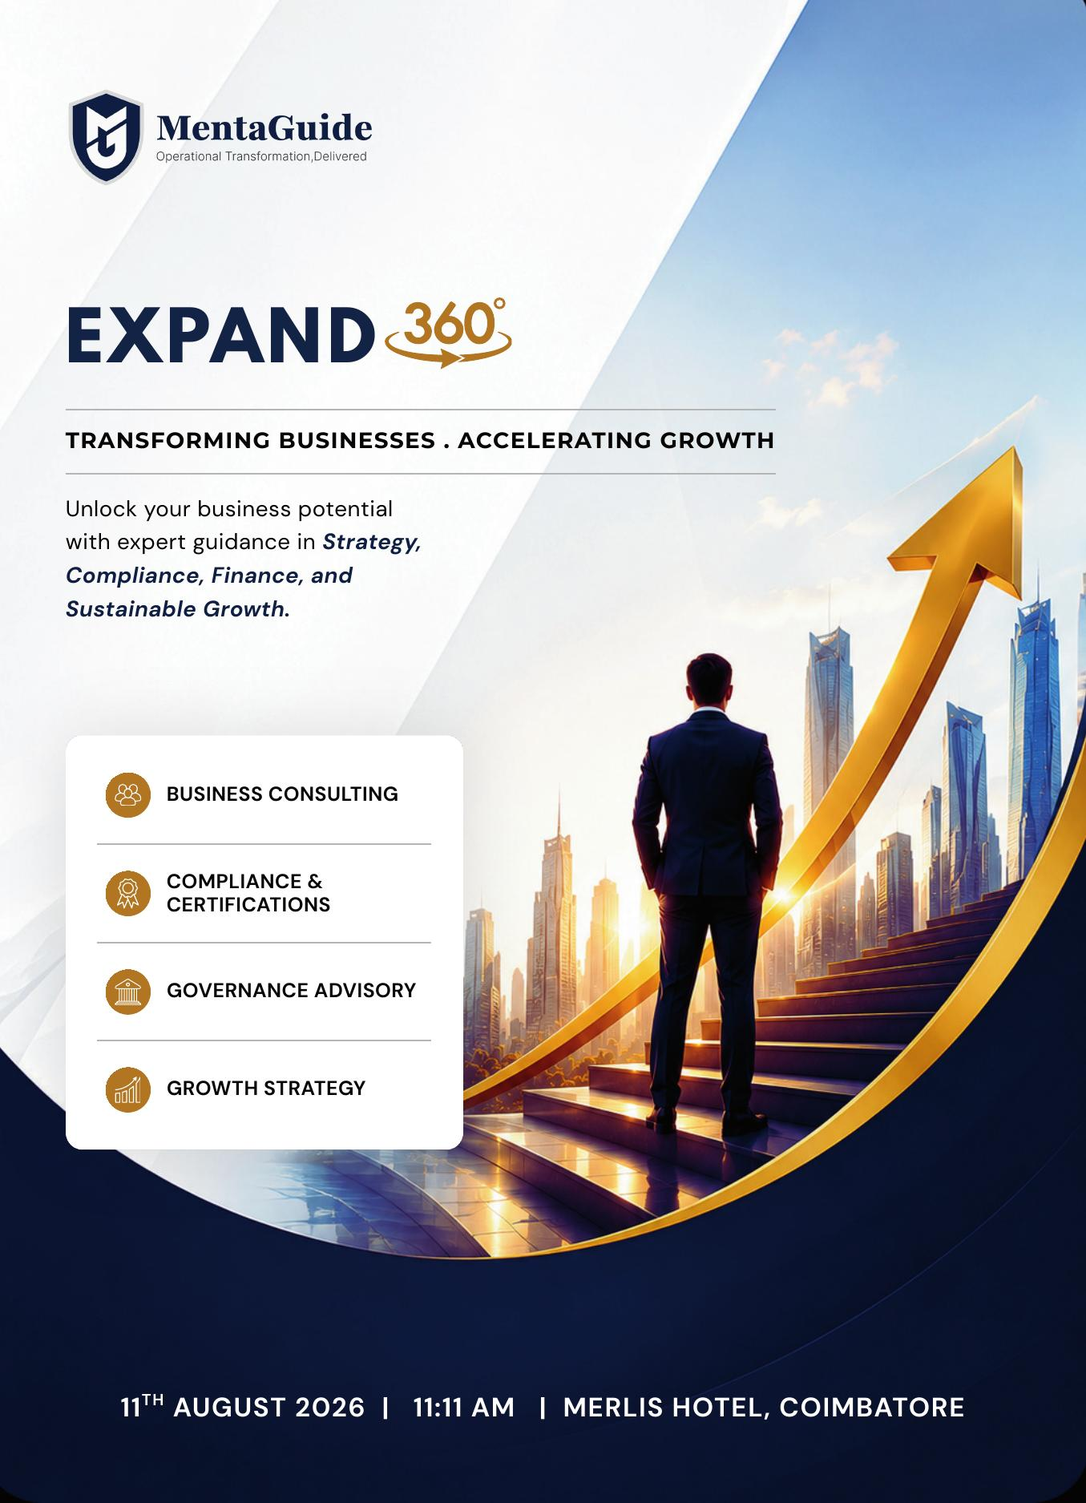
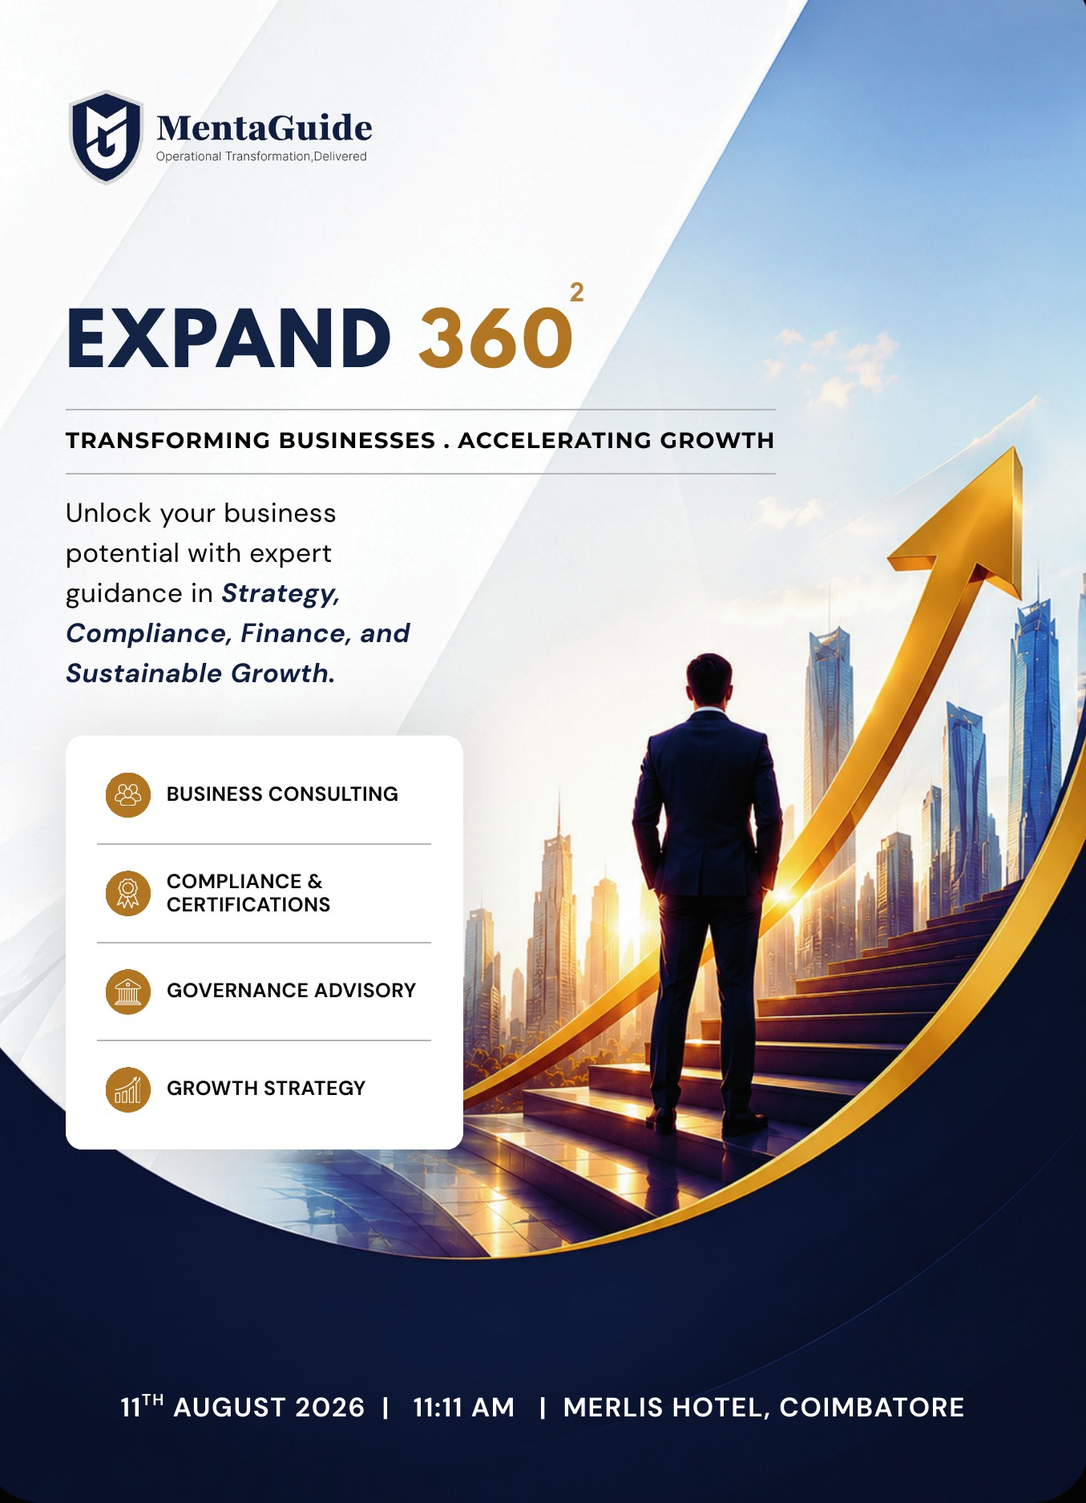
corrections

Changed region(s): [[0.062, 0.3093, 0.372, 0.464], [0.062, 0.1856, 0.5579, 0.2475]]

diff --git a/src/components/Shared/Navbar.jsx b/src/components/Shared/Navbar.jsx
@@ -5,11 +5,9 @@ import { toast } from 'react-toastify';
 import { FaArrowRight } from 'react-icons/fa';
 import { Mentaguidelogo1 } from '../../assets/images';
 import { AppContext } from '../../context/AppContext';
-import AdvertiserForm from '../AdvertiserForm';
 
 const Navbar = ({ activeIndex, hideFloatingNav = false }) => {
   const [isOpen, setIsOpen] = useState(false);
-  const [isAdvertiserModalOpen, setIsAdvertiserModalOpen] = useState(false);
   const [isDropdownOpen, setIsDropdownOpen] = useState(false);
   const navigate = useNavigate();
   const location = useLocation();
@@ -21,13 +19,7 @@ const Navbar = ({ activeIndex, hideFloatingNav = false }) => {
   const toggleMenu = () => setIsOpen(!isOpen);
 
   const handleAdvertiserClick = () => {
-    if (!userData) {
-      toast.error('To access this form, you must login your email.');
-    } else if (!userData.isAccountVerified) {
-      toast.error('To access this form, you must verify your email.');
-    } else {
-      setIsAdvertiserModalOpen(true);
-    }
+    navigate('/event-registration');
   };
 
   const sendVerificationEmail = async () => {
@@ -206,17 +198,17 @@ const Navbar = ({ activeIndex, hideFloatingNav = false }) => {
 
           {/* Bottom Elements */}
           {!hideFloatingNav && (
-          <div className={`${positionClass} ${location.pathname === '/about' ? 'top-[calc(100vh-0.0rem)] sm:top-[calc(100vh-1rem)] md:top-[calc(100vh-4rem)] lg:top-[calc(100vh-4.5rem)]' : isAboutPage ? 'top-[calc(100vh-8rem)] sm:top-[calc(100vh-6rem)] md:top-[calc(100vh-4rem)] lg:top-[calc(100vh-4.5rem)]' : 'bottom-8 md:bottom-4 lg:bottom-6'} left-0 right-0 flex flex-col md:flex-row justify-between items-center md:items-end z-50 px-6 md:px-8 lg:px-20 pointer-events-auto`}>
+          <div className={`${positionClass} ${location.pathname === '/about' ? 'top-[calc(100vh-0.0rem)] sm:top-[calc(100vh-1rem)] md:top-[calc(100vh-4rem)] lg:top-[calc(100vh-4.5rem)]' : location.pathname === '/event' ? 'top-[calc(100vh-4rem)] sm:top-[calc(100vh-3rem)] md:top-[calc(100vh-2.5rem)] lg:top-[calc(100vh-2rem)]' : isAboutPage ? 'top-[calc(100vh-8rem)] sm:top-[calc(100vh-6rem)] md:top-[calc(100vh-4rem)] lg:top-[calc(100vh-4.5rem)]' : 'bottom-8 md:bottom-4 lg:bottom-6'} left-0 right-0 flex flex-col md:flex-row justify-between items-center md:items-end z-50 px-6 md:px-8 lg:px-20 pointer-events-auto`}>
             <div className={`${isHomeHeroSection ? 'hidden' : 'flex'} flex-wrap justify-center items-center gap-4 md:gap-5 lg:gap-10 text-xs sm:text-sm md:text-base lg:text-[1.25rem] font-bold transition-colors duration-300 pl-0 lg:pl-32 xl:pl-48 ${isDarkText ? 'text-black' : 'text-white'}`}>
               {!isLoggedIn && (
                 <button onClick={openLogin} className={`font-gilroy hover:text-[#a4d64f] transition-colors uppercase tracking-widest cursor-pointer ${isHomeHeroSection ? 'text-white' : ''}`}>Login</button>
               )}
-              <button onClick={handleAdvertiserClick} className="bg-[#a4d64f] text-[#202523] px-5 py-2 md:px-5 md:py-2.5 lg:px-6 rounded-full font-black uppercase tracking-widest hover:bg-[#b5e663] transition-all hover:-translate-y-1 shadow-[0_4px_14px_rgba(164,214,79,0.3)] text-xs lg:text-base cursor-pointer hidden md:block whitespace-nowrap">Advertiser Signup</button>
+              <button onClick={handleAdvertiserClick} className="bg-[#a4d64f] text-[#202523] px-5 py-2 md:px-5 md:py-2.5 lg:px-6 rounded-full font-black uppercase tracking-widest hover:bg-[#b5e663] transition-all hover:-translate-y-1 shadow-[0_4px_14px_rgba(164,214,79,0.3)] text-xs lg:text-base cursor-pointer hidden md:block whitespace-nowrap">Register Now</button>
             </div>
             <div className={`${location.pathname === '/event' ? 'hidden sm:flex' : 'flex'} flex-col sm:flex-row justify-end md:justify-center items-end sm:items-center gap-0.5 sm:gap-3 md:gap-2 lg:gap-3 text-[0.75rem] sm:text-[1rem] md:text-base lg:text-[1.15rem] font-bold font-gilroy tracking-wide mt-1 md:mt-0 transition-colors duration-300 self-end md:self-auto ${isHomeHeroSection ? 'text-white translate-x-6 md:translate-x-10 lg:translate-x-85 -translate-y-2 md:-translate-y-3 lg:-translate-y-4' : isDarkText ? 'text-black' : 'text-white'}`}>
               <a href="tel:+917708505529" className="hover:text-[#a4d64f] transition-colors cursor-pointer">+91 7708505529</a>
               <span className="hidden sm:inline opacity-50">|</span>
-              <a href="mailto:mentaguide6@gmail.com" className="hover:text-[#a4d64f] transition-colors cursor-pointer whitespace-nowrap">mentaguide6@gmail.com</a>
+              <a href="mailto:info@mentaguide.com" className="hover:text-[#a4d64f] transition-colors cursor-pointer whitespace-nowrap">info@mentaguide.com</a>
             </div>
           </div>
           )}
@@ -284,37 +276,18 @@ const Navbar = ({ activeIndex, hideFloatingNav = false }) => {
             <div className="flex flex-wrap justify-center items-center gap-6 md:gap-10 text-base md:text-[1rem] lg:text-[1.1rem] font-bold">
               {authControl}
               <button onClick={handleAdvertiserClick} className="bg-[#a4d64f] text-[#202523] px-5 py-2 md:px-6 md:py-2.5 rounded-full font-black uppercase tracking-widest hover:bg-[#b5e663] transition-all hover:-translate-y-1 shadow-[0_4px_14px_rgba(164,214,79,0.3)] text-xs md:text-sm lg:text-base cursor-pointer">
-                Advertiser Signup
+                Register Now
               </button>
             </div>
             <div className="flex flex-col sm:flex-row items-center gap-2 sm:gap-3 text-[1rem] md:text-[1.1rem] font-bold font-gilroy tracking-wide mt-4 md:mt-0">
               <a href="tel:+917708505529" className="hover:text-[#a4d64f] transition-colors cursor-pointer">+91 7708505529</a>
               <span className="hidden sm:inline opacity-50">|</span>
-              <a href="mailto:mentaguide6@gmail.com" className="hover:text-[#a4d64f] transition-colors cursor-pointer">mentaguide6@gmail.com</a>
+              <a href="mailto:info@mentaguide.com" className="hover:text-[#a4d64f] transition-colors cursor-pointer">info@mentaguide.com</a>
             </div>
           </div>
         </div>
       </div>
 
-      {/* Advertiser Signup Modal */}
-      {isAdvertiserModalOpen && (
-        <div className="fixed inset-0 z-[200] flex items-center justify-center bg-black/60 p-4 backdrop-blur-sm">
-          <div className="relative w-full max-w-4xl h-[85vh] bg-white rounded-2xl shadow-2xl flex flex-col overflow-hidden animate-in fade-in zoom-in duration-200">
-            <div className="flex items-center justify-between p-4 border-b border-gray-100">
-              <h3 className="font-gilroy font-bold text-xl text-[#2d2f31]">Advertiser Signup</h3>
-              <button
-                onClick={() => setIsAdvertiserModalOpen(false)}
-                className="text-gray-400 hover:text-red-500 transition-colors w-8 h-8 flex items-center justify-center rounded-full hover:bg-red-50"
-              >
-                <svg className="w-5 h-5" fill="none" stroke="currentColor" viewBox="0 0 24 24"><path strokeLinecap="round" strokeLinejoin="round" strokeWidth="2" d="M6 18L18 6M6 6l12 12"></path></svg>
-              </button>
-            </div>
-            <div className="flex-1 w-full bg-gray-50 p-6 md:p-8 overflow-y-auto scroll-smooth">
-              <AdvertiserForm onSuccess={() => setIsAdvertiserModalOpen(false)} />
-            </div>
-          </div>
-        </div>
-      )}
     </>
   );
 };

diff --git a/src/components/eventpage/TestimonialsSection.jsx b/src/components/eventpage/TestimonialsSection.jsx
@@ -1,28 +1,24 @@
 import React, { useState } from 'react';
 import { FaStar, FaQuoteLeft, FaQuoteRight, FaChevronLeft, FaChevronRight } from 'react-icons/fa';
-import { speakers1, speakers2, speakers4 } from '../../assets/images';
 
 const testimonials = [
   {
     id: 1,
     name: 'Ryan Thompson',
     role: 'Business Analyst',
-    image: speakers1,
-    text: 'Sed ut perspiciatis unde omnis iste natus error sit voluptatem accusantium doloremque laudantium totam rem aperiam eaque ipsa quae ab illo inventore veritatis.',
+    text: 'A well-organized event with valuable insights on business strategy and growth. The networking opportunities were excellent.',
   },
   {
     id: 2,
     name: 'Rachel Chen',
     role: 'Project Manager',
-    image: speakers2,
-    text: 'At vero eos et accusamus et iusto odio dignissimos ducimus qui blanditiis praesentium voluptatum deleniti atque corrupti quos dolores et quas molestias excepturi.',
+    text: 'Great sessions on digital transformation and market expansion. I came away with practical ideas I could apply immediately.',
   },
   {
     id: 3,
     name: 'Jessica Martinez',
-    role: 'UX Designer',
-    image: speakers4,
-    text: 'Excepteur sint occaecat cupidatat non proident, sunt in culpa qui officia deserunt mollit anim id est laborum consectetur adipiscing elit sed eiusmod tempor.',
+    role: 'Startup Founder',
+    text: 'The speakers were knowledgeable and the discussions on governance and compliance were exactly what our team needed.',
   },
 ];
 
@@ -46,7 +42,7 @@ const TestimonialsSection = () => {
           <h2 className="font-gilroy text-4xl font-black text-[#1c0d03] sm:text-5xl">Testimonials</h2>
           <div className="mx-auto mt-4 h-1 w-16 bg-[#f47a00]"></div>
           <p className="mx-auto mt-6 max-w-2xl font-gilroy-light text-sm font-semibold leading-6 text-[#5f524b] sm:text-base">
-            Necessitatibus eius consequatur ex aliquid fuga eum quidem sint consectetur velit
+            What past attendees have to say about MentaGuide Business Horizons.
           </p>
         </div>
 
@@ -60,17 +56,16 @@ const TestimonialsSection = () => {
                 idx === currentIndex ? 'block' : 'hidden lg:block'
               }`}
             >
-              {/* Profile Image */}
-              <div className="mx-auto flex h-20 w-20 items-center justify-center rounded-full border-4 border-orange-100 p-1 shadow-md">
-                <img
-                  src={testimonial.image}
-                  alt={testimonial.name}
-                  className="h-full w-full rounded-full object-cover"
-                />
+              {/* Author Info */}
+              <div className="text-center">
+                <p className="font-gilroy text-lg font-black text-[#1c0d03]">{testimonial.name}</p>
+                <p className="font-gilroy-light text-[11px] font-semibold text-gray-400">
+                  {testimonial.role}
+                </p>
               </div>
 
               {/* Stars */}
-              <div className="mt-5 flex justify-center gap-1 text-[#ffb800]">
+              <div className="mt-4 flex justify-center gap-1 text-[#ffb800]">
                 {[...Array(5)].map((_, i) => (
                   <FaStar key={i} />
                 ))}
@@ -85,14 +80,6 @@ const TestimonialsSection = () => {
                 <FaQuoteRight className="absolute -right-2 bottom-0 text-sm text-[#f47a00]/40" />
               </div>
 
-              {/* Author Info */}
-              <div className="mt-8 text-center">
-                <p className="font-gilroy text-lg font-black text-[#1c0d03]">{testimonial.name}</p>
-                <p className="font-gilroy-light text-[11px] font-semibold text-gray-400">
-                  {testimonial.role}
-                </p>
-              </div>
-
               {/* Bottom Quote Icon */}
               <div className="absolute bottom-6 right-6 flex h-8 w-8 items-center justify-center rounded-full bg-orange-100 text-[#f47a00]">
                 <FaQuoteRight className="text-xs" />
@@ -101,37 +88,23 @@ const TestimonialsSection = () => {
           ))}
         </div>
 
-        {/* Navigation Buttons (Visible primarily on mobile or when used as a full carousel) */}
-        <div className="mt-12 flex justify-center gap-4 lg:justify-end">
+        {/* Navigation Buttons */}
+        {/* <div className="mt-12 flex justify-center gap-4 lg:justify-end">
           <button
             onClick={prevTestimonial}
-            className="flex h-10 w-10 items-center justify-center rounded-full bg-[#f47a00] text-white shadow-md transition hover:-translate-y-0.5 hover:bg-[#d66a00] lg:hidden"
+            className="flex h-10 w-10 items-center justify-center rounded-full bg-[#f47a00] text-white shadow-md transition hover:-translate-y-0.5 hover:bg-[#d66a00]"
             aria-label="Previous testimonial"
           >
             <FaChevronLeft className="text-sm" />
           </button>
           <button
             onClick={nextTestimonial}
-            className="flex h-10 w-10 items-center justify-center rounded-full bg-[#f47a00] text-white shadow-md transition hover:-translate-y-0.5 hover:bg-[#d66a00] lg:hidden"
+            className="flex h-10 w-10 items-center justify-center rounded-full bg-[#f47a00] text-white shadow-md transition hover:-translate-y-0.5 hover:bg-[#d66a00]"
             aria-label="Next testimonial"
           >
             <FaChevronRight className="text-sm" />
           </button>
-
-          {/* Desktop Nav Buttons (As per mockup, they are always at the bottom right) */}
-          <button
-            className="hidden h-10 w-10 items-center justify-center rounded-full bg-[#f47a00] text-white shadow-md transition hover:-translate-y-0.5 hover:bg-[#d66a00] lg:flex"
-            aria-label="Previous testimonial"
-          >
-            <FaChevronLeft className="text-sm" />
-          </button>
-          <button
-            className="hidden h-10 w-10 items-center justify-center rounded-full bg-[#f47a00] text-white shadow-md transition hover:-translate-y-0.5 hover:bg-[#d66a00] lg:flex"
-            aria-label="Next testimonial"
-          >
-            <FaChevronRight className="text-sm" />
-          </button>
-        </div>
+        </div> */}
 
       </div>
     </section>

diff --git a/src/components/eventpage/Herosection.jsx b/src/components/eventpage/Herosection.jsx
@@ -5,8 +5,6 @@ import { eventherosectionbg } from '../../assets/images';
 
 const summitStart = new Date('2026-08-11T11:11:00+05:30').getTime();
 
-const sponsors = ['Alitalia', 'LEXMARK', 'signifyhealth', 'VIATRIS', 'ROHTO', 'chewy'];
-
 const getTimeLeft = () => {
   const distance = Math.max(summitStart - Date.now(), 0);
 
@@ -40,7 +38,7 @@ const Herosection = () => {
 
   return (
     <section
-      className="relative flex min-h-screen w-full items-center justify-center overflow-hidden bg-[#090704] px-4 py-24 text-white sm:px-6 lg:px-8"
+      className="relative flex min-h-screen w-full items-center justify-center overflow-hidden bg-[#090704] px-4 pt-24 pb-40 text-white sm:px-6 sm:pb-44 lg:px-8 lg:pb-36"
       style={{
         backgroundImage: `url(${eventherosectionbg})`,
         backgroundSize: 'cover',
@@ -54,7 +52,7 @@ const Herosection = () => {
       <div className="relative z-10 mx-auto flex w-full max-w-6xl flex-col items-center text-center">
         <div className="mx-auto max-w-4xl pt-4 sm:pt-8 lg:pt-0">
           <h1 className="font-gilroy text-[clamp(1.75rem,5vw,3.5rem)] font-black leading-[1.08] text-white drop-shadow-[0_3px_0_rgba(9,65,145,0.85)]">
-            MentaGuide Business Horizons 2026
+            Expand 360²
             <span className="block">Discover. Connect. Grow.</span>
           </h1>
 
@@ -62,14 +60,21 @@ const Herosection = () => {
             An exclusive business forum bringing together entrepreneurs, industry experts, investors, and policymakers to exchange ideas, build strategic partnerships, and shape the future of sustainable business growth.
           </p>
 
-          <div className="mt-9 flex flex-col items-center justify-center gap-4 text-xs font-bold sm:flex-row sm:gap-10 md:text-sm">
+          <div className="mt-9 flex flex-col items-center justify-center gap-4 text-base font-bold sm:flex-row sm:gap-10 md:text-lg">
             <div className="flex items-center gap-3">
               <FaCalendarAlt className="text-[#ff7a00]" aria-hidden="true" />
               <span>August 11, 2026</span>
             </div>
             <div className="flex items-center gap-3">
               <FaMapMarkerAlt className="text-[#ff7a00]" aria-hidden="true" />
-              <span>Merlis Hotel, Coimbatore</span>
+              <a
+                href="https://www.google.com/maps/search/?api=1&query=Merlis+Hotel%2C+61%2C+Avinashi+Road%2C+Goldwins%2C+Coimbatore%2C+Tamil+Nadu+-+641014"
+                target="_blank"
+                rel="noopener noreferrer"
+                className="underline-offset-2 hover:underline hover:text-[#ff7a00] transition-colors"
+              >
+                Merlis Hotel, Coimbatore
+              </a>
             </div>
           </div>
         </div>
@@ -90,7 +95,7 @@ const Herosection = () => {
           </div>
         </div>
 
-        <div className="mt-16 flex w-full flex-col items-center justify-center gap-4 sm:mt-20 sm:w-auto sm:flex-row">
+        <div className="mt-10 flex w-full flex-col items-center justify-center gap-4 sm:mt-12 sm:w-auto sm:flex-row">
           <button
             type="button"
             onClick={() => navigate('/event-registration')}
@@ -117,22 +122,6 @@ const Herosection = () => {
         <p className="mt-6 max-w-xl text-center text-[11px] italic leading-6 text-white/90 sm:text-xs">
           Limited to 30 Executive Participants
         </p>
-
-        <div className="mt-12 w-full border-t border-white/15 pt-8 text-left sm:mt-14 lg:mt-16">
-          <p className="text-[10px] font-black uppercase tracking-wider text-white/85 sm:text-[11px]">
-            Proudly Supported By Industry Leaders
-          </p>
-          <div className="mt-7 grid grid-cols-2 items-center gap-x-8 gap-y-6 opacity-75 sm:grid-cols-3 md:grid-cols-6">
-            {sponsors.map((sponsor) => (
-                <span
-                  key={sponsor}
-                  className="text-center font-gilroy text-lg font-black text-white/80 grayscale sm:text-xl md:text-2xl"
-                >
-                {sponsor}
-              </span>
-            ))}
-          </div>
-        </div>
       </div>
     </section>
   );

diff --git a/src/components/eventpage/FeaturedSpeakersSection.jsx b/src/components/eventpage/FeaturedSpeakersSection.jsx
@@ -5,7 +5,7 @@ import { speakers1, speakers2, speakers3, speakers4, speakers5, speakers6 } from
 const featuredSpeakers = [
   {
     name: 'Hari Basker',
-    role: 'Featured Speaker',
+    role: 'Business Strategy & Growth Advisor',
     company: 'MentaGuide Business Horizons 2026',
     badge: 'Keynote Speaker',
     session: 'Shaping the Future of Business',
@@ -13,7 +13,7 @@ const featuredSpeakers = [
   },
   {
     name: 'Migeal Anitha Christina',
-    role: 'Featured Speaker',
+    role: 'Corporate Governance & Compliance Expert',
     company: 'MentaGuide Business Horizons 2026',
     badge: 'Panel Speaker',
     session: 'Strategic Growth & Collaboration',
@@ -81,7 +81,7 @@ const FeaturedSpeakersSection = () => {
           </h2>
           <span className="mx-auto mt-4 block h-1 w-16 rounded-full bg-[#ff7a00]" />
           <p className="mt-5 text-xs leading-6 text-[#4e443d] sm:text-sm">
-            Necessitatibus eius consequatur ex aliquid fuga eum quidem sint consectetur velit
+            Hear from business leaders and industry experts sharing insights on strategy, growth, and sustainable business transformation.
           </p>
         </div>
 
@@ -149,18 +149,11 @@ const FeaturedSpeakersSection = () => {
             "
           </div>
           <blockquote className="mx-auto max-w-3xl text-sm italic leading-7 text-[#2a211a]">
-            "Lorem ipsum dolor sit amet, consectetur adipiscing elit, sed do eiusmod tempor incididunt ut labore et dolore magna aliqua. Ut enim ad minim veniam, quis nostrud exercitation ullamco laboris."
+            "MentaGuide Business Horizons brings together the right people and ideas to help businesses grow with clarity and confidence."
           </blockquote>
-          <figcaption className="mt-7 flex flex-col items-center justify-center gap-3 sm:flex-row">
-            <img
-              src={speakers1}
-              alt="Emily Rodriguez"
-              className="h-12 w-12 rounded-full border-2 border-[#ff7a00] object-cover"
-            />
-            <div className="text-center sm:text-left">
-              <p className="font-gilroy text-sm font-black text-[#1d120b]">Emily Rodriguez</p>
-              <p className="mt-1 text-[11px] text-[#7c7067]">Chief Technology Officer, InnovaTech Global</p>
-            </div>
+          <figcaption className="mt-7 text-center">
+            <p className="font-gilroy text-sm font-black text-[#1d120b]">Emily Rodriguez</p>
+            <p className="mt-1 text-[11px] text-[#7c7067]">Chief Technology Officer, InnovaTech Global</p>
           </figcaption>
         </figure>
       </div>

diff --git a/src/pages/Homepage.jsx b/src/pages/Homepage.jsx
@@ -95,7 +95,7 @@ const Homepage = () => {
                 <div className="w-full min-h-screen snap-start overflow-hidden relative" style={{ height: '100dvh' }}><TrafficSourcesSection /></div>
                 {/* <div className="w-full min-h-screen snap-start overflow-hidden relative"><AdvertisersSection /></div> */}
                 <div className="w-full min-h-screen snap-start overflow-hidden relative" style={{ height: '100dvh' }}><ProcessSection /></div>
-                <div className="w-full min-h-screen snap-start overflow-hidden relative" style={{ height: '100dvh' }}><NumbersSection /></div>
+                {/* <div className="w-full min-h-screen snap-start overflow-hidden relative" style={{ height: '100dvh' }}><NumbersSection /></div> */}
                 {/* <div className="w-full min-h-screen snap-start overflow-hidden relative"><TeamSection /></div> */}
                 <div className="w-full min-h-screen snap-start overflow-hidden relative" style={{ height: '100dvh' }}><ContactSection /></div>
             </div>

diff --git a/src/pages/Eventpage.jsx b/src/pages/Eventpage.jsx
@@ -6,7 +6,7 @@ import ScheduleSection from '../components/eventpage/ScheduleSection'
 // import EarlyBirdSection from '../components/eventpage/EarlyBirdSection'
 // import EventLogosSection from '../components/eventpage/EventLogosSection'
 import TestimonialsSection from '../components/eventpage/TestimonialsSection'
-import CallToActionSection from '../components/eventpage/CallToActionSection'
+// import CallToActionSection from '../components/eventpage/CallToActionSection'
 // import EventImagesSection from '../components/eventpage/EventImagesSection'
 
 const Eventpage = () => {
@@ -22,7 +22,7 @@ const Eventpage = () => {
         <ScheduleSection/>
         {/* <EarlyBirdSection/> */}
         {/* <EventLogosSection/> */}
-        <CallToActionSection/>
+        {/* <CallToActionSection/> */}
         <TestimonialsSection/>
         {/* <EventImagesSection/> */}
     </div>

diff --git a/src/pages/AdvertiserSignupPage.jsx b/src/pages/AdvertiserSignupPage.jsx
@@ -19,7 +19,7 @@ const AdvertiserSignupPage = () => {
         <div className="flex items-center gap-2 sm:gap-3 text-xs sm:text-sm font-bold">
           <a href="tel:+917708505529" className="hover:text-[#a4d64f] transition-colors">+91 7708505529</a>
           <span className="opacity-50">|</span>
-          <a href="mailto:mentaguide6@gmail.com" className="hover:text-[#a4d64f] transition-colors whitespace-nowrap">mentaguide6@gmail.com</a>
+          <a href="mailto:info@mentaguide.com" className="hover:text-[#a4d64f] transition-colors whitespace-nowrap">info@mentaguide.com</a>
         </div>
       </div>
 

diff --git a/src/components/ContactSection.jsx b/src/components/ContactSection.jsx
@@ -79,7 +79,7 @@ const ContactSection = () => {
             <h3 className="font-gilroy font-normal text-lg md:text-xl lg:text-2xl mb-4 text-white">Address:</h3>
 
             <div className="font-normal text-xs sm:text-sm lg:text-[1rem] leading-relaxed space-y-4 mb-7 md:mb-8 text-white">
-              <p>LordMinds Private Limited.<br />1/1, Manoj nagar, kannampalayam,<br />Sulur, Coimbatore - 641 402</p>
+              <p>Mentaguide<br />509-P, 3rd Floor, Red Rose Plaza,<br />D.B. Road, R.S. Puram, <br />Coimbatore - 641002</p>
             </div>
 
             {/* Badges */}
